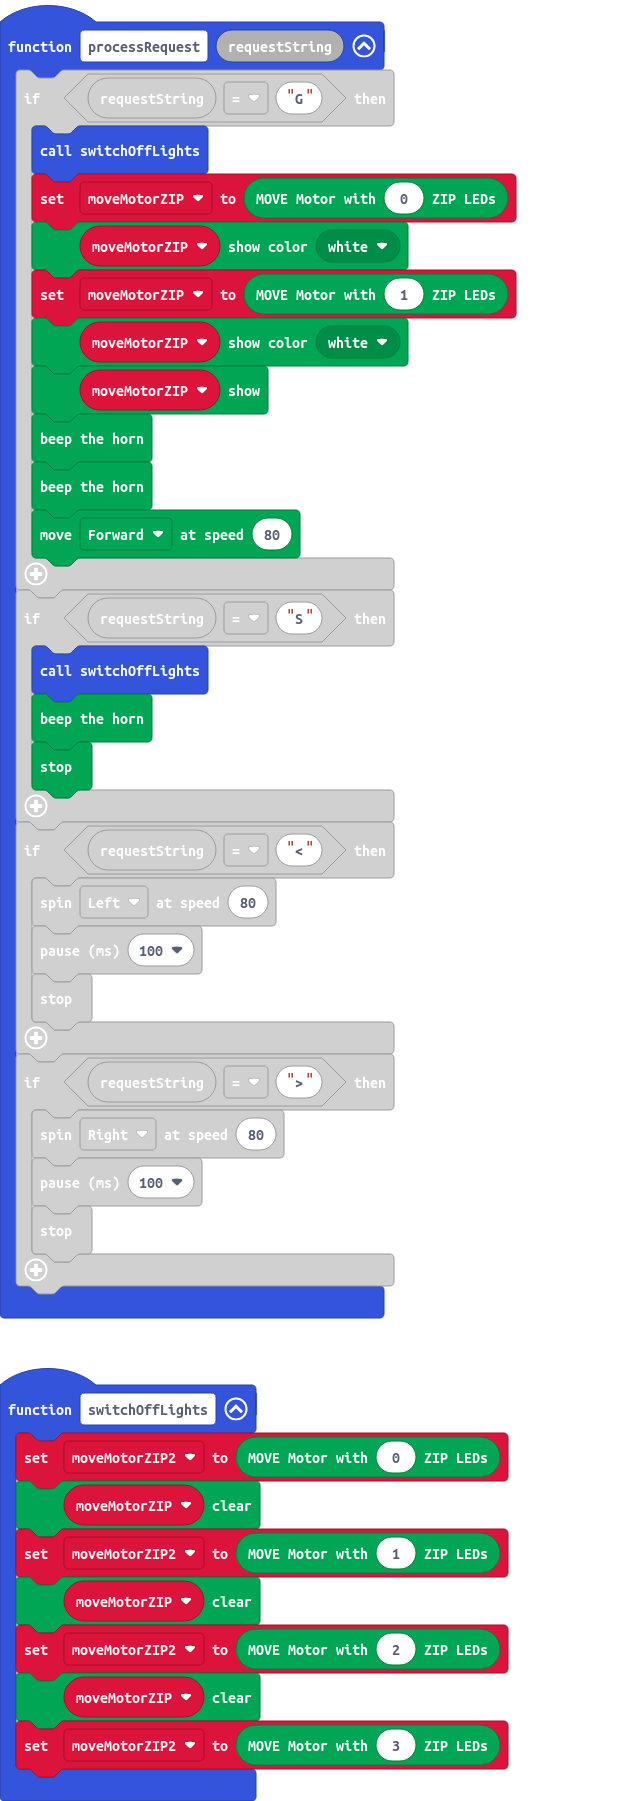
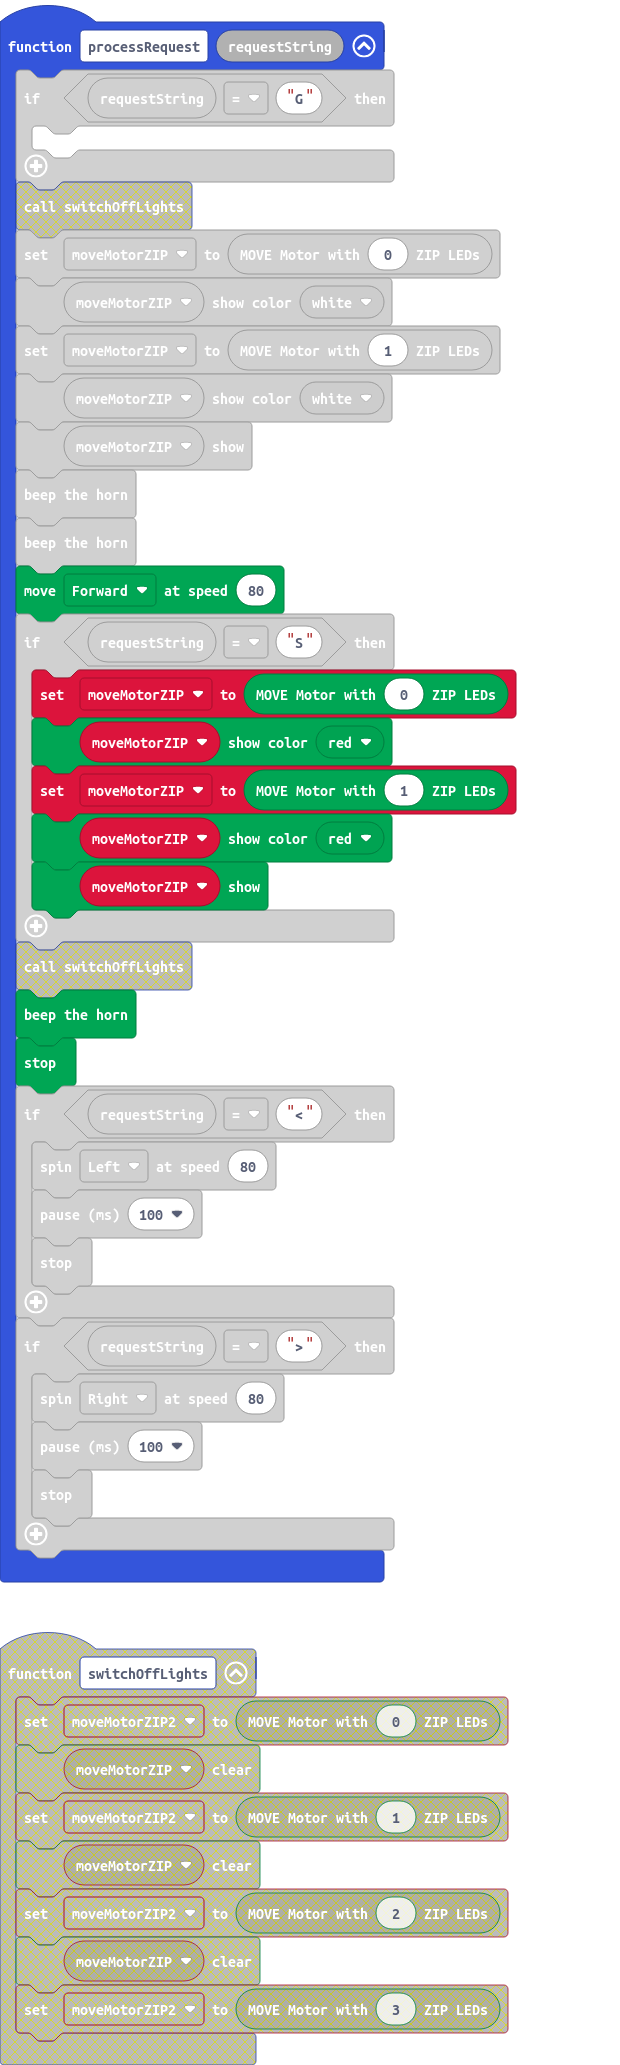
Updated lights

diff --git a/main.ts b/main.ts
@@ -1,6 +1,5 @@
 function processRequest (requestString: string) {
     if (requestString == "G") {
-        switchOffLights()
         moveMotorZIP = Kitronik_Move_Motor.createMoveMotorZIPLED(0)
         moveMotorZIP.showColor(Kitronik_Move_Motor.colors(Kitronik_Move_Motor.ZipLedColors.White))
         moveMotorZIP = Kitronik_Move_Motor.createMoveMotorZIPLED(1)
@@ -11,7 +10,11 @@ function processRequest (requestString: string) {
         Kitronik_Move_Motor.move(Kitronik_Move_Motor.DriveDirections.Forward, 80)
     }
     if (requestString == "S") {
-        switchOffLights()
+        moveMotorZIP = Kitronik_Move_Motor.createMoveMotorZIPLED(0)
+        moveMotorZIP.showColor(Kitronik_Move_Motor.colors(Kitronik_Move_Motor.ZipLedColors.Red))
+        moveMotorZIP = Kitronik_Move_Motor.createMoveMotorZIPLED(1)
+        moveMotorZIP.showColor(Kitronik_Move_Motor.colors(Kitronik_Move_Motor.ZipLedColors.Red))
+        moveMotorZIP.show()
         Kitronik_Move_Motor.beepHorn()
         Kitronik_Move_Motor.stop()
     }
@@ -26,20 +29,10 @@ function processRequest (requestString: string) {
         Kitronik_Move_Motor.stop()
     }
 }
-function switchOffLights () {
-    moveMotorZIP2 = Kitronik_Move_Motor.createMoveMotorZIPLED(0)
-    moveMotorZIP.clear()
-    moveMotorZIP2 = Kitronik_Move_Motor.createMoveMotorZIPLED(1)
-    moveMotorZIP.clear()
-    moveMotorZIP2 = Kitronik_Move_Motor.createMoveMotorZIPLED(2)
-    moveMotorZIP.clear()
-    moveMotorZIP2 = Kitronik_Move_Motor.createMoveMotorZIPLED(3)
-}
 radio.onReceivedString(function (receivedString) {
     basic.showString(receivedString)
     processRequest(receivedString)
 })
-let moveMotorZIP2: Kitronik_Move_Motor.MoveMotorZIP = null
 let moveMotorZIP: Kitronik_Move_Motor.MoveMotorZIP = null
 radio.setGroup(50)
 basic.forever(function () {
